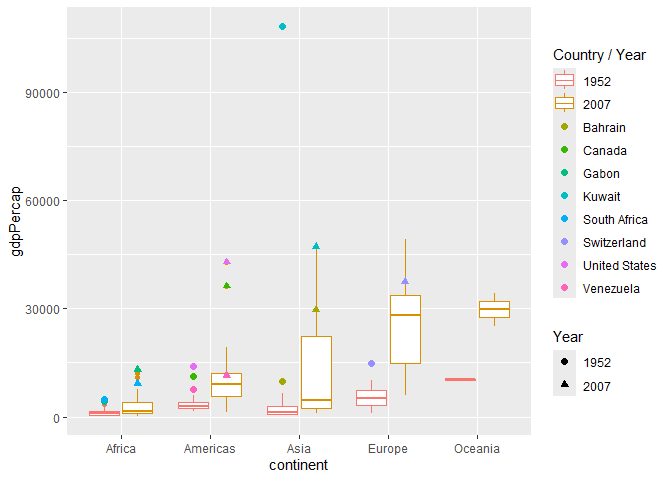
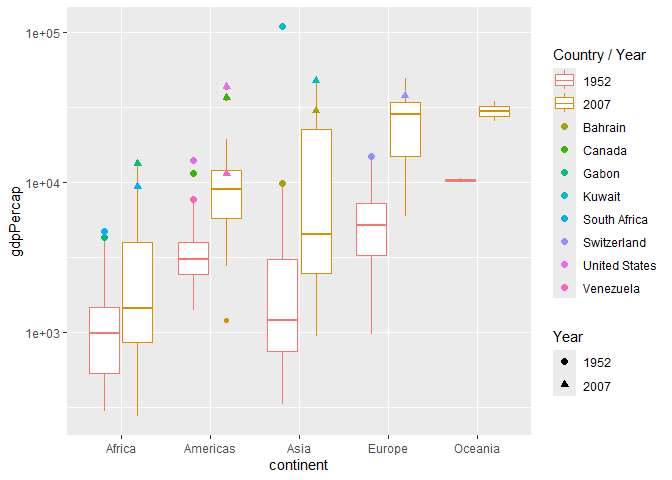
Finished Challenge 4 Revisions

diff --git a/challenges/c04-gapminder-assignment.md b/challenges/c04-gapminder-assignment.md
@@ -263,21 +263,22 @@ can.
 gapminder %>%
   filter(year == year_min) %>%
   ggplot(aes(x = continent, y = gdpPercap)) + 
-  geom_boxplot()
+  geom_boxplot() + 
+  scale_y_log10()
 ```
 
 ![](c04-gapminder-assignment_files/figure-gfm/q2-task-1.png)<!-- -->
 
 **Observations**:
 
-- Most continents have a relatively low GDP per capita with a relatively
-  small spread. The median for all countries does not pass 30000
+- The mean for all continents falls between 1000 and 10000. The median
+  for all continents does not pass 1\*10^4.
 - Oceania has both the smallest GDP per capita spread and the highest
   median, suggesting the GDP per capita of its countries is relatively
-  similar.
-- The Americas, Africa, Asia, and Europe all have noticeable outliers,
-  with Asia having a very high outlier.
-- Europe has the largest spead.
+  similar, or the number of countries located in Oceania is very small.
+- The Americas and Asia have noticeable outliers, with Asia having a
+  very high outlier.
+- Asia has the largest spead.
 - All the outliers seem to be greater than the upper bound, not lower.
 
 **Difficulties & Approaches**:
@@ -395,14 +396,36 @@ gapminder %>%
     size = 2,
     position = position_dodge(width = 0.75)  # Properly align dots with boxplots
   ) +
-  labs(color = "Country / Year", shape = "Year")
+  labs(color = "Country / Year", shape = "Year") +
+  scale_y_log10()
 ```
 
 ![](c04-gapminder-assignment_files/figure-gfm/q4-task-1.png)<!-- -->
 
+``` r
+gapminder %>%
+  filter(year %in% c(year_min, year_max)) %>%
+  ggplot(aes(x = continent, y = gdpPercap, group = interaction(continent, factor(year)))) +
+  geom_boxplot(aes(color = factor(year))) +  # Boxplots colored by year
+  geom_point(
+    data = gapminder %>% 
+      filter(year %in% c(year_min, year_max), 
+             country %in% c("United States", "Kuwait", "Switzerland")),  # ✅ Correct filter
+    aes(x = continent, y = gdpPercap, color = country, shape = factor(year)),  # Differentiate by country and year
+    size = 2,
+    position = position_dodge(width = 0.75) # Properly align dots with boxplots
+  ) +
+  scale_color_manual(
+    values = c("orange", "black", "red", "green", "blue"), # Assign colors
+    labels = c(year_min, year_max, "Kuwait", "Switzerland", "United States") # Ensure proper labeling
+  ) +
+  labs(color = "Country / Year", shape = "Year")
+```
+
+![](c04-gapminder-assignment_files/figure-gfm/unnamed-chunk-4-1.png)<!-- -->
+
 **Observations**:
 
-- Africa gained more outliers between 1952 and 2007.
 - The median and range tended to increase between 1952 and 2007 - does
   this dataset take inflation into account?
 - Kuwait’s GDP decreased significantly between 1952 and 2007, it is the
@@ -470,16 +493,33 @@ gapminder %>%
 ![](c04-gapminder-assignment_files/figure-gfm/q5-task3-1.png)<!-- -->
 
 ``` r
-# GDP vs. Time
 gapminder %>%
-  group_by(continent, year) %>%
-  mutate(med_GDP = median(gdpPercap)) %>%
-  ggplot(aes(x = year, y = med_GDP)) +
-  geom_line(aes(color = continent), size = 0.6) +
-  scale_y_log10() 
+  filter(country == "Mexico") %>%  # ✅ Select only Mexico
+  group_by(year) %>%  # ✅ Group by year (not continent)
+  ggplot(aes(x = year, y = gdpPercap)) +
+  geom_line(size = 0.6) +
+  labs(title = "GDP per Capita in Mexico Over Time")# ✅ Line plot for Mexico
 ```
 
-![](c04-gapminder-assignment_files/figure-gfm/unnamed-chunk-4-1.png)<!-- -->
+![](c04-gapminder-assignment_files/figure-gfm/unnamed-chunk-5-1.png)<!-- -->
+
+``` r
+americas <- gapminder %>%
+  filter(year == 2007, continent == "Americas") %>% 
+  nrow()
+americas
+```
+
+    ## [1] 25
+
+``` r
+low_gdp_americas <- gapminder %>%
+  filter(year == 2007, continent == "Americas", gdpPercap < 10000)%>%
+  nrow()
+low_gdp_americas
+```
+
+    ## [1] 16
 
 ``` r
 gapminder %>%
